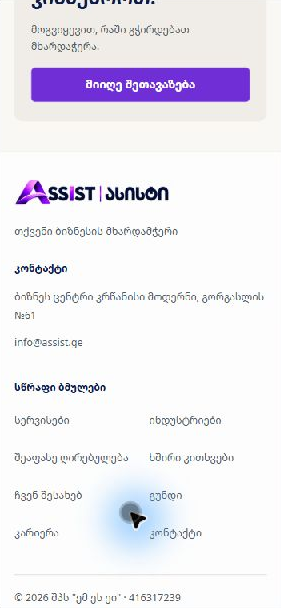
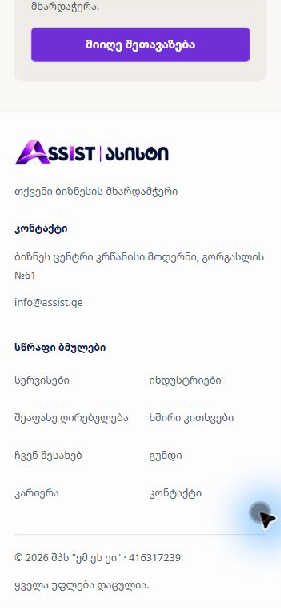
Record verified public continuous light surfaces and fresh screenshots

diff --git a/docs/brand/qa/2026-11-19-surface-flow/README.md b/docs/brand/qa/2026-11-19-surface-flow/README.md
@@ -1,3 +1,5 @@
+> გამოქვეყნებულია: PR #4 / merge a4328ce. Public15routes/9asset hashes/4fonts და Chrome157 top/footer1440/390 წარმატებით შემოწმდა. [HTTP ანგარიში](public-publication.json).
+
 # ფერების ბუნებრივი უწყვეტობა
 
 საწყისი main a1e67ef; სამუშაო codex/assist-unified-surfaces. თეთრი header/footer და თითქმის შავი კონტენტი ერთ გვერდზე მკვეთრ გადასვლას ქმნიდა. OS dark mode / ძველი saved dark არჩევანი ამ მდგომარეობას ავტომატურად აბრუნებდა. ინჟინერული გადაწყვეტილებაა ერთიანი ღია საჯარო თემა; ძველი theme picker და ThemeProvider საჯარო აპლიკაციიდან მოხსნილია, prepaint script და CSS/HTML light-ს ინარჩუნებს. ძველი preference არ იშლება და პირადი მონაცემები არ იცვლება. კითხვაზე დამატებითი preference პასუხი არ მიღებულა; განხორციელებულია წინასწარ ახსნილი რეკომენდებული ღია მიმართულება.
@@ -8,6 +10,6 @@
 
 ახალი შემოწმებები: npm run check; npm test39/39; npm run build15+404; smoke-release; audit-web15 routes. Chrome157.0.8103.79,Windows native UI,production http://127.0.0.1:5016; home1440×900/390×844, დამატებით320×844; home-footer,calculator,accounting CTA. Keyboard breadcrumb focus რეალურად ხილულია; primary CTA-ს კლავიატურის სრული ნაკადი ამ მცირე შესწორებაში ცალკე არ გამეორებულა. old saved dark/dark OS/blocked storage-ის prepaint ქცევა ავტომატურ რეგრესიაში მოწმდება. ფიზიკური მოწყობილობა/AT არ გამოყენებულა. სრული ენების/ორიენტაციების მატრიცა არ გამეორებულა.
 
-[რეალური მანამდე/შემდეგ](surface-comparison.png) · [მობილური footer](after-mobile.png) · [browser timestamps/URLs](browser-captures.json) · [actual button computed](service-button-computed.txt). შედარების მარცხენა კადრი https://assist.ge-ის საწყისი dark არჩევანია; მარჯვენა ახალი local production. კადრები native browser screenshot-ის crop-ებია, არა მაკეტები. ლურჯი pointer halo automation-ის მაჩვენებელია.
+[რეალური მანამდე/შემდეგ](surface-comparison.png) · [მობილური footer](after-mobile.png) · [browser timestamps/URLs](browser-captures.json) · [actual button computed](service-button-computed.txt). შედარების მარცხენა კადრი https://assist.ge-ის საწყისი dark არჩევანია; მარჯვენა ახალი https://assist.ge public production. კადრები native browser screenshot-ის crop-ებია, არა მაკეტები. ლურჯი pointer halo automation-ის მაჩვენებელია.
 
 Master PNG SHA-256 უცვლელია449ff8c94c993a29bc58f9e0e43bb04d594088e367eeb015fd094fbd73191a5e. API/CSP/მონაცემთა გადატანა/ბაზა/მიღება უცვლელია. INTAKE_MODE=disabled; INDEXING_ENABLED=false. საჯარო ასახვის შემოწმება ცალკე ჩაიწერება.

diff --git a/docs/brand/CODEX_CONTINUE.md b/docs/brand/CODEX_CONTINUE.md
@@ -1,3 +1,13 @@
+## ერთიანი ღია თემა Assist.ge-ზე დადასტურდა — 19 ნოემბერი 2026
+
+[PR #4](https://github.com/revaza88/assistpro/pull/4) გაერთიანდა main-ში: [a4328ce](https://github.com/revaza88/assistpro/commit/a4328ce8dad6b72d8a4937b9a3ac109b27578b10). GitHub-ის canonical წყაროზე448a906 TypeScript,39/39 ტესტი,production build15+404 დაclean audit-release5assets წარმატებულია; tree bcaf912940e0b37e8cbf9c5e878ec1e8b1b1bd32. CI status0; ადგილობრივი ტესტები CI-ის შედეგს არ უდრის.
+
+**საჯარო ასახვა დადასტურებულია:**15 გვერდი200/ერთი H1/CSP nonce/noindex/intake disabled;9 რეალურად ჩამოტვირთული ფაილის SHA/ზომა ემთხვევა ახალ build-ს, მათ შორის განახლებული theme-init.js;4 ფონტი200. ახალი საჯარო Chrome157 top/footer შემოწმება1440×900 და390×844-ზე ადასტურებს ერთიან ღია ფონს და theme picker-ის მოხსნას. Public browser-ს მანამდე saved dark ჰქონდა; ახალი ვერსია მაინც light-ია. [საჯარო ანგარიში](qa/2026-11-19-surface-flow/public-publication.json) · [რეალური საჯარო მანამდე/შემდეგ](qa/2026-11-19-surface-flow/surface-comparison.png). ბაზა/production intake/indexing/შეტყობინებები გამორთულია; საჯარო write0.
+
+ფერთა ამოცანა დასრულებულია. არსებული hosting release.json-ის Git metadata null შეზღუდვა ცალკე რჩება; strict source audit არ შესუსტებულა. ფიზიკური მობილური/AT არ გამოყენებულა. ქვემოთ publication-pending აღწერა ისტორიულია.
+
+---
+
 ## მიმდინარე შესწორება — ერთიანი ღია ფონი, 19 ნოემბერი 2026
 
 მომხმარებელმა მიუთითა არაბუნებრივ თეთრი–მუქი–თეთრი მიმდევრობაზე. ამ კონკრეტული ფერთა შესწორების განხორციელების გადაწყვეტილებაა ერთიანი ღია საჯარო თემა: OS/ძველი შენახული dark არჩევანი აღარ ამუქებს კონტენტს, theme picker აღარ ჩანს. ეს ცვლის წინა მუქი UI ადაპტაციის შენარჩუნების ჩანაწერს მიმდინარე საჯარო ვერსიისთვის. ლოგოს Master V1.2 PNG და #FDFDFD გარემო უცვლელია.

diff --git a/docs/brand/IMPLEMENTATION_ACCEPTANCE.md b/docs/brand/IMPLEMENTATION_ACCEPTANCE.md
@@ -1,3 +1,13 @@
+## ერთიანი ღია თემა Assist.ge-ზე დადასტურდა — 19 ნოემბერი 2026
+
+[PR #4](https://github.com/revaza88/assistpro/pull/4) გაერთიანდა main-ში: [a4328ce](https://github.com/revaza88/assistpro/commit/a4328ce8dad6b72d8a4937b9a3ac109b27578b10). GitHub-ის canonical წყაროზე448a906 TypeScript,39/39 ტესტი,production build15+404 დაclean audit-release5assets წარმატებულია; tree bcaf912940e0b37e8cbf9c5e878ec1e8b1b1bd32. CI status0; ადგილობრივი ტესტები CI-ის შედეგს არ უდრის.
+
+**საჯარო ასახვა დადასტურებულია:**15 გვერდი200/ერთი H1/CSP nonce/noindex/intake disabled;9 რეალურად ჩამოტვირთული ფაილის SHA/ზომა ემთხვევა ახალ build-ს, მათ შორის განახლებული theme-init.js;4 ფონტი200. ახალი საჯარო Chrome157 top/footer შემოწმება1440×900 და390×844-ზე ადასტურებს ერთიან ღია ფონს და theme picker-ის მოხსნას. Public browser-ს მანამდე saved dark ჰქონდა; ახალი ვერსია მაინც light-ია. [საჯარო ანგარიში](qa/2026-11-19-surface-flow/public-publication.json) · [რეალური საჯარო მანამდე/შემდეგ](qa/2026-11-19-surface-flow/surface-comparison.png). ბაზა/production intake/indexing/შეტყობინებები გამორთულია; საჯარო write0.
+
+ფერთა ამოცანა დასრულებულია. არსებული hosting release.json-ის Git metadata null შეზღუდვა ცალკე რჩება; strict source audit არ შესუსტებულა. ფიზიკური მობილური/AT არ გამოყენებულა. ქვემოთ publication-pending აღწერა ისტორიულია.
+
+---
+
 ## მიმდინარე შესწორება — ერთიანი ღია ფონი, 19 ნოემბერი 2026
 
 მომხმარებელმა მიუთითა არაბუნებრივ თეთრი–მუქი–თეთრი მიმდევრობაზე. ამ კონკრეტული ფერთა შესწორების განხორციელების გადაწყვეტილებაა ერთიანი ღია საჯარო თემა: OS/ძველი შენახული dark არჩევანი აღარ ამუქებს კონტენტს, theme picker აღარ ჩანს. ეს ცვლის წინა მუქი UI ადაპტაციის შენარჩუნების ჩანაწერს მიმდინარე საჯარო ვერსიისთვის. ლოგოს Master V1.2 PNG და #FDFDFD გარემო უცვლელია.
